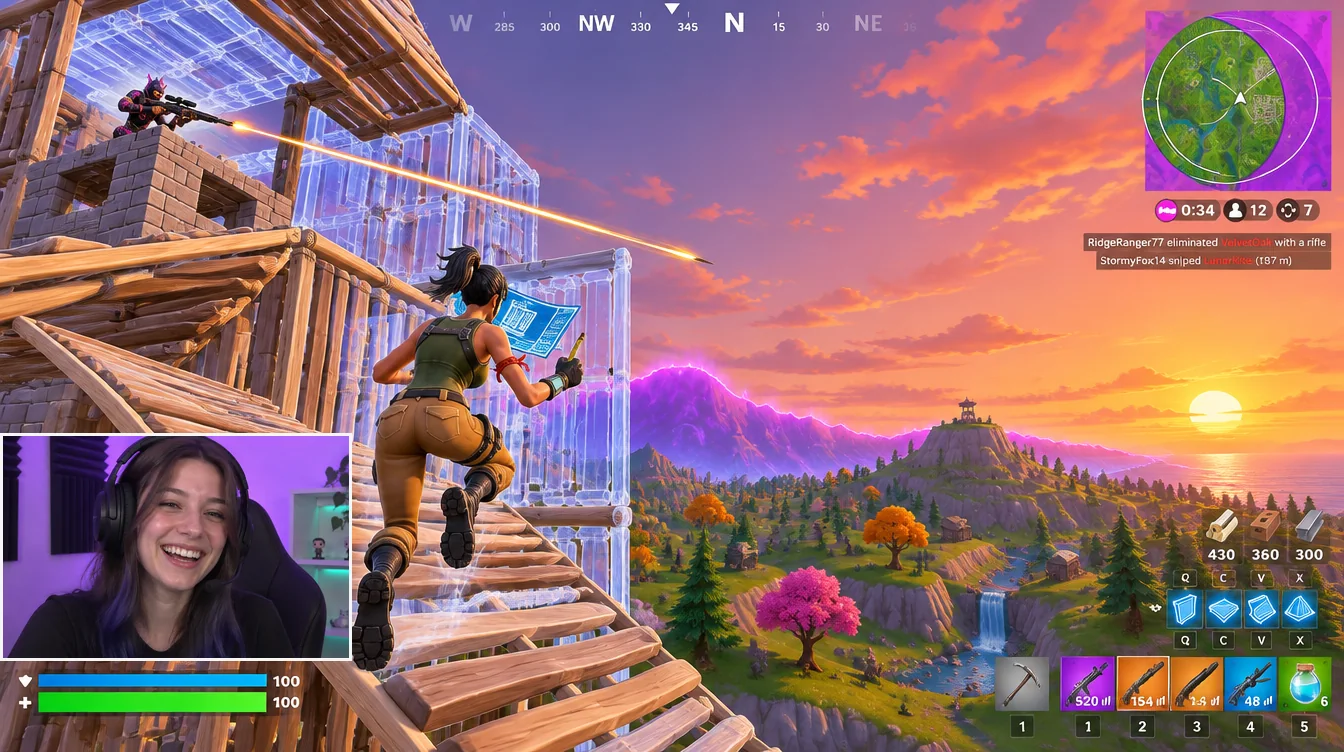
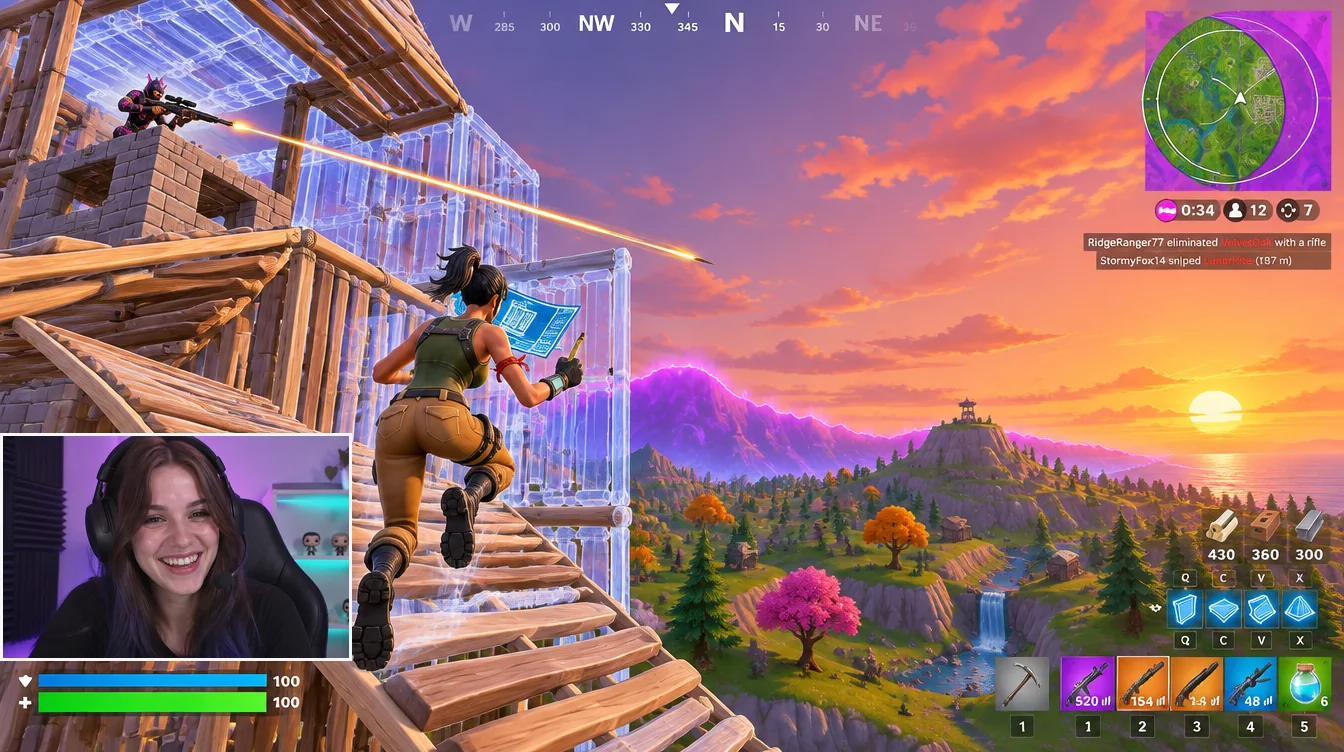
landing: Holler still uses the owner's final streamer pick (cam-r2-1)

Changed region(s): [[0.0, 0.5811, 0.2812, 0.887], [0.2188, 0.7952, 0.2812, 0.887]]

diff --git a/web/components/landing/ways-in.css b/web/components/landing/ways-in.css
@@ -46,7 +46,7 @@
   opacity: 0;
   transition: opacity .32s cubic-bezier(.23, 1, .32, 1);
 }
-.mcl-ways-shot[data-shot='holler'] { background-image: url('/landing/ways-holler.webp?v=5'); }
+.mcl-ways-shot[data-shot='holler'] { background-image: url('/landing/ways-holler.webp?v=6'); }
 .mcl-ways-shot[data-shot='callin'] { background-image: url('/landing/ways-callin.webp'); }
 .mcl-ways-shot[data-shot='bounty'] { background-image: url('/landing/ways-bounty.webp?v=2'); }
 .mcl-ways-stage[data-way='holler'] [data-shot='holler'],
